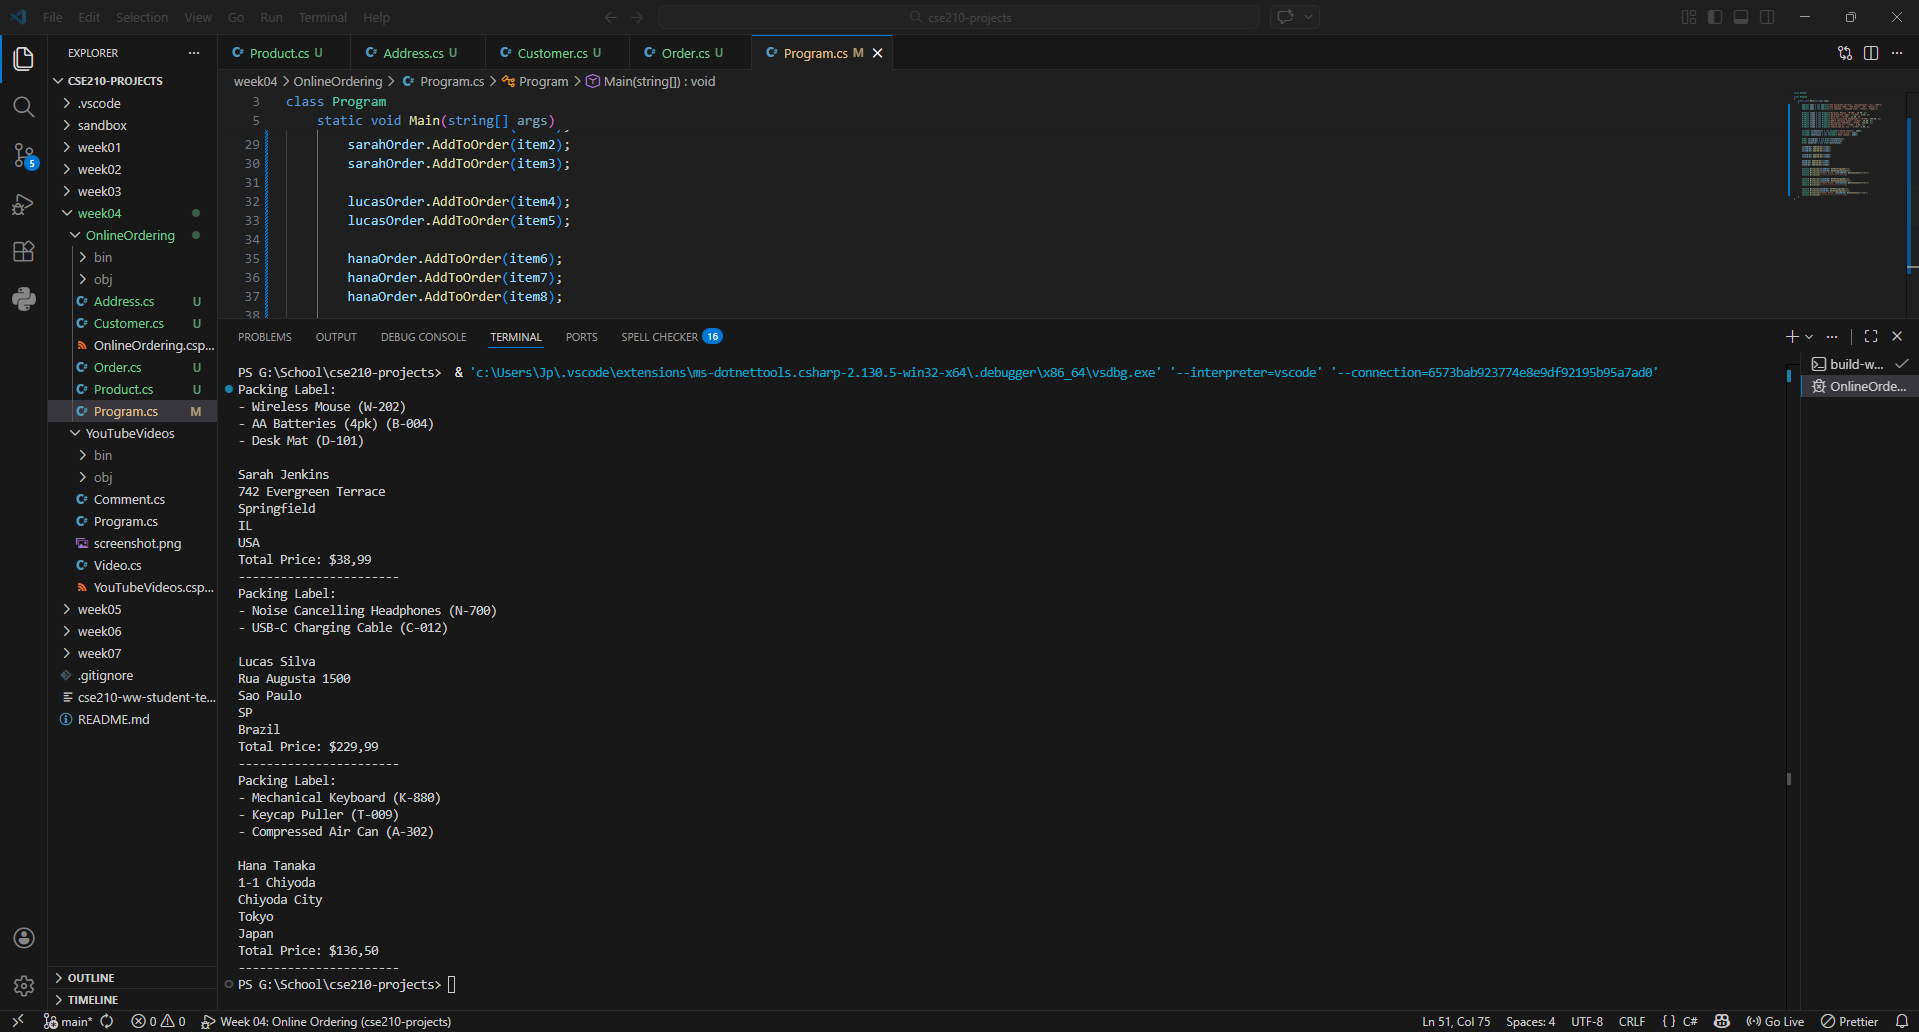
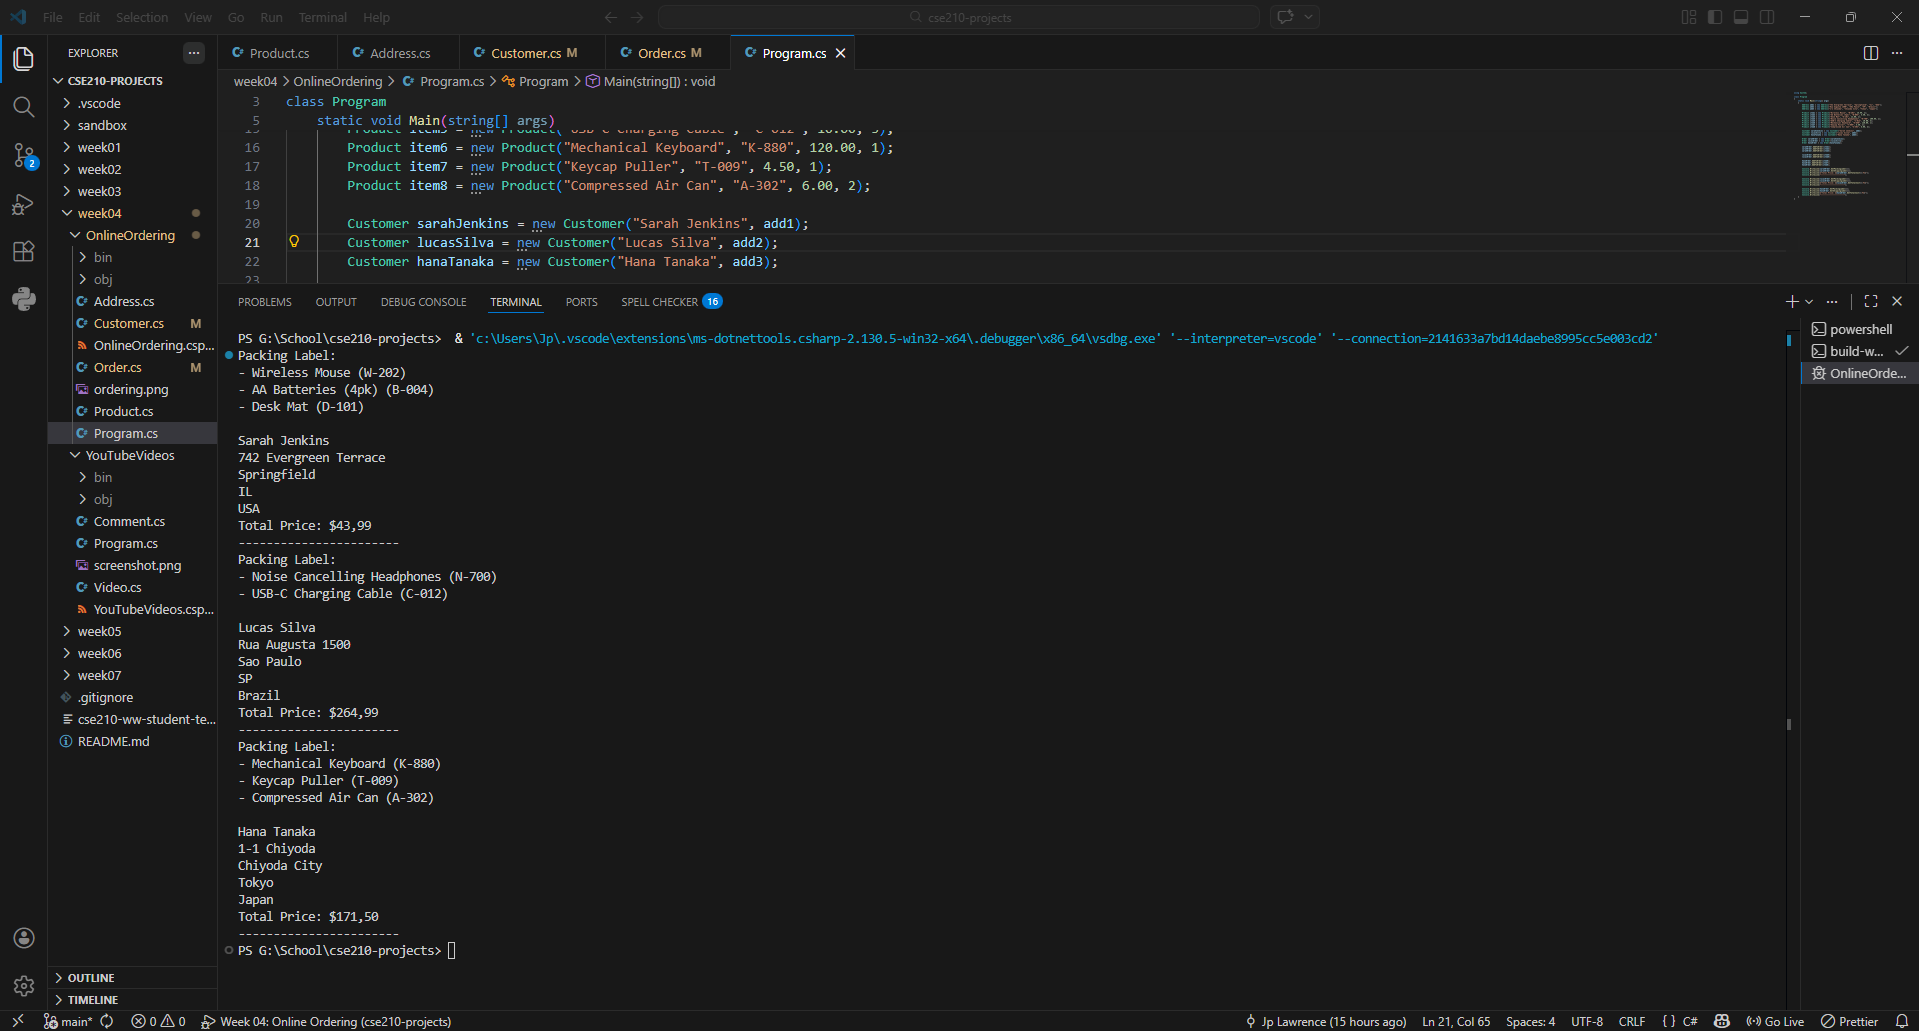
updated order.cs

diff --git a/week04/OnlineOrdering/Order.cs b/week04/OnlineOrdering/Order.cs
@@ -9,15 +9,24 @@ class Order
     }
     public double GetTotalCost()
     {
-        double total = 0;
+        double subtotal = 0;
 
         foreach (Product product in _order)
         {
-            double productAmt = product.CalculateTotal();
-            total += productAmt;
+            subtotal += product.CalculateTotal();
         }
 
-        return total;
+        double shippingCost;
+        if (_customer.IsInUS())
+        {
+            shippingCost = 5;
+        }
+        else
+        {
+            shippingCost = 35;
+        }
+
+        return subtotal + shippingCost;
     }
     public string GetPackingLabel()
     {

diff --git a/week04/OnlineOrdering/Customer.cs b/week04/OnlineOrdering/Customer.cs
@@ -17,4 +17,9 @@ class Customer
     {
         return $"{_name}\n{_address.Display()}";
     }
+
+    public bool IsInUS()
+    {
+        return _address.IsInUS();
+    }
 }
